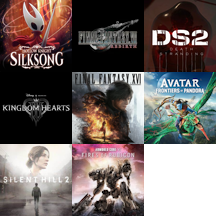
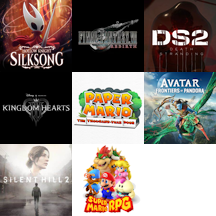
Update release radar

Changed region(s): [[0.3333, 0.3333, 0.6667, 1.0]]

diff --git a/_includes/sidebar.html b/_includes/sidebar.html
@@ -20,16 +20,17 @@
     <div class="widget-title">Release Radar</div>
     <div class="widget-content widget-releaseradar">
         <style type="text/css">
-            div.rrdiv{margin-bottom:12px;margin-left:-12px}div.rrdiv>img{margin-left:12px;width:72px;height:72px}img#silksong{background:url(/resources/png/nmn8uQRPqx4FOopD/release-radar.png) 0px 0px}img#ffxvi{background:url(/resources/png/nmn8uQRPqx4FOopD/release-radar.png) -72px -72px}img#ff7rebirth{background:url(/resources/png/nmn8uQRPqx4FOopD/release-radar.png) -72px 0px}img#ds2{background:url(/resources/png/nmn8uQRPqx4FOopD/release-radar.png) -144px 0px}img#kh4{background:url(/resources/png/nmn8uQRPqx4FOopD/release-radar.png) 0px -72px}img#avatar{background:url(/resources/png/nmn8uQRPqx4FOopD/release-radar.png) -144px -72px}img#sh2{background:url(/resources/png/nmn8uQRPqx4FOopD/release-radar.png) 0px -144px}img#ac6{background:url(/resources/png/nmn8uQRPqx4FOopD/release-radar.png) -72px -144px}
+            div.rrdiv{margin-bottom:12px;margin-left:-12px}div.rrdiv>img{margin-left:12px;width:72px;height:72px}img#silksong{background:url(/resources/png/nmn8uQRPqx4FOopD/release-radar.png) 0px 0px}img#ttyd{background:url(/resources/png/nmn8uQRPqx4FOopD/release-radar.png) -72px -72px}img#ff7rebirth{background:url(/resources/png/nmn8uQRPqx4FOopD/release-radar.png) -72px 0px}img#ds2{background:url(/resources/png/nmn8uQRPqx4FOopD/release-radar.png) -144px 0px}img#kh4{background:url(/resources/png/nmn8uQRPqx4FOopD/release-radar.png) 0px -72px}img#avatar{background:url(/resources/png/nmn8uQRPqx4FOopD/release-radar.png) -144px -72px}img#sh2{background:url(/resources/png/nmn8uQRPqx4FOopD/release-radar.png) 0px -144px}img#smrpg{background:url(/resources/png/nmn8uQRPqx4FOopD/release-radar.png) -72px -144px}
         </style>
         <div class="flex rrdiv">
             <img src="/resources/png/B1cZjrwAuuPI9Cyd/blank.png" id="silksong" title="Hollow Knight: Silksong">
             <img src="/resources/png/B1cZjrwAuuPI9Cyd/blank.png" id="kh4" title="Kingdom Hearts IV">
             <img src="/resources/png/B1cZjrwAuuPI9Cyd/blank.png" id="ds2" title="Death Stranding 2">
-            <img src="/resources/png/B1cZjrwAuuPI9Cyd/blank.png" id="ac6" title="Armored Core VI">
+            <img src="/resources/png/B1cZjrwAuuPI9Cyd/blank.png" id="ttyd" title="Paper Mario: The Thousand-Year Door">
         </div>
         <div class="flex rrdiv">
             <img src="/resources/png/B1cZjrwAuuPI9Cyd/blank.png" id="avatar" title="Avatar: Frontiers of Pandora">
+            <img src="/resources/png/B1cZjrwAuuPI9Cyd/blank.png" id="smrpg" title="Super Mario RPG">
             <img src="/resources/png/B1cZjrwAuuPI9Cyd/blank.png" id="sh2" title="Silent Hill 2 Remake">
             <img src="/resources/png/B1cZjrwAuuPI9Cyd/blank.png" id="ff7rebirth" title="Final Fantasy VII: Rebirth">
         </div>
